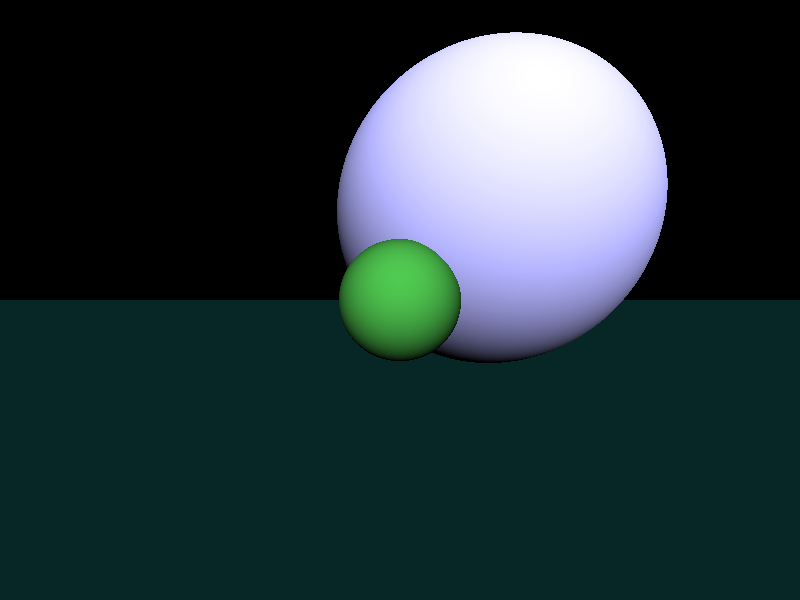
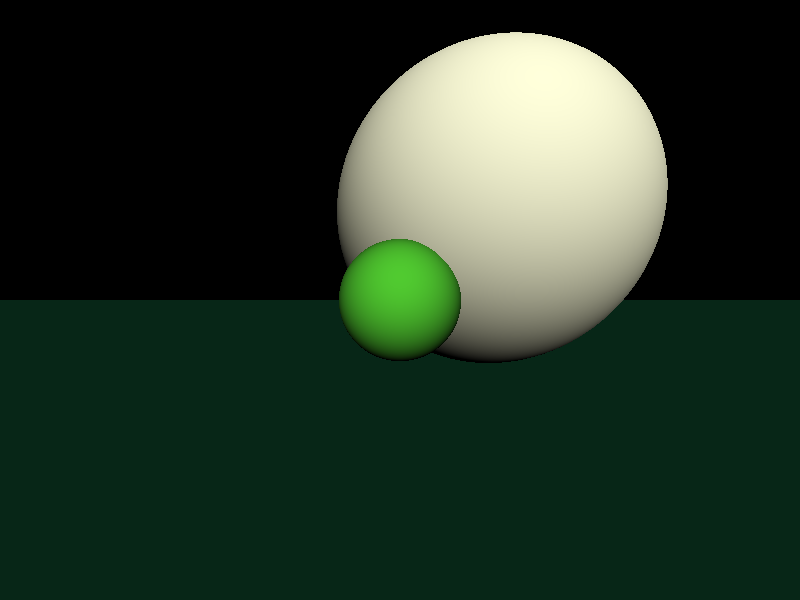
remove max(0.0)

Changed region(s): [[0.4062, 0.03, 0.8438, 0.6]]

diff --git a/src/main.rs b/src/main.rs
@@ -9,10 +9,9 @@ use rendering::{render};
 use scene::{Color, Plane, Scene, Sphere, DirectionalLight};
 
 fn main() {
-    println!("Hello, world!");
+    test_can_render_scene();
 }
 
-#[test]
 fn test_can_render_scene() {
     let scene = Scene {
         width: 800,
@@ -65,7 +64,7 @@ fn test_can_render_scene() {
         lights: vec![
             Box::new(DirectionalLight {
                 direction: Vector3::new(0.0, -1.0, -3.0).normalize(),
-                color: Color {r: 1.0, g: 1.0, b: 1.0},
+                color: Color {r: 1.0, g: 1.0, b: 0.6},
                 intensity: 5.0,
             })
         ]

diff --git a/src/rendering.rs b/src/rendering.rs
@@ -72,7 +72,8 @@ pub fn render(scene: &Scene) -> DynamicImage {
                 .iter()
                 .map(|light| {
                     let dir = light.direction_from(&hit_point);
-                    light.color() * light.intensity(&hit_point) * (surface_normal.dot(&dir) as f32).max(0.0)
+                    let theta = surface_normal.dot(&dir) as f32;
+                    light.color() * light.intensity(&hit_point) * theta
                 })
                 .sum::<Color>()
                 * intersection.item.albedo()
